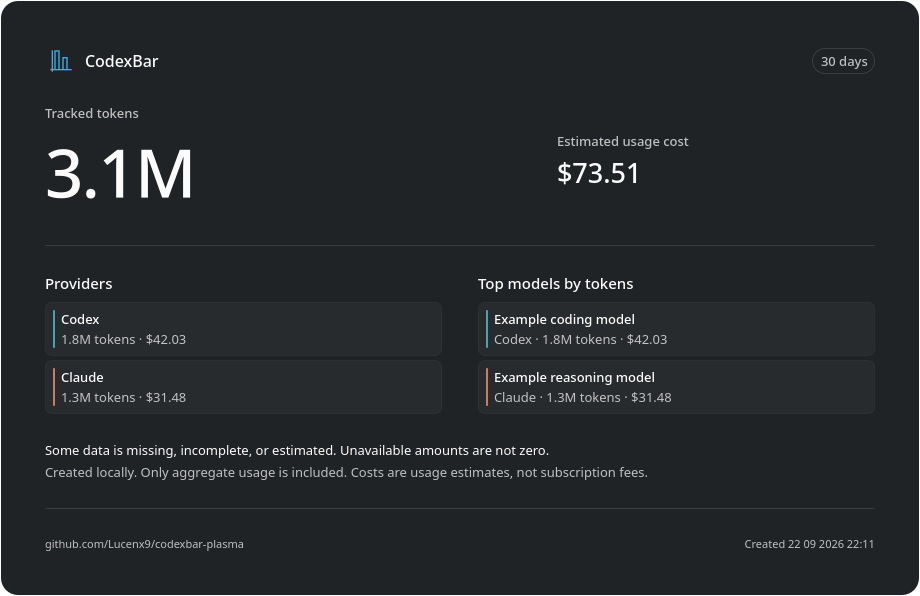
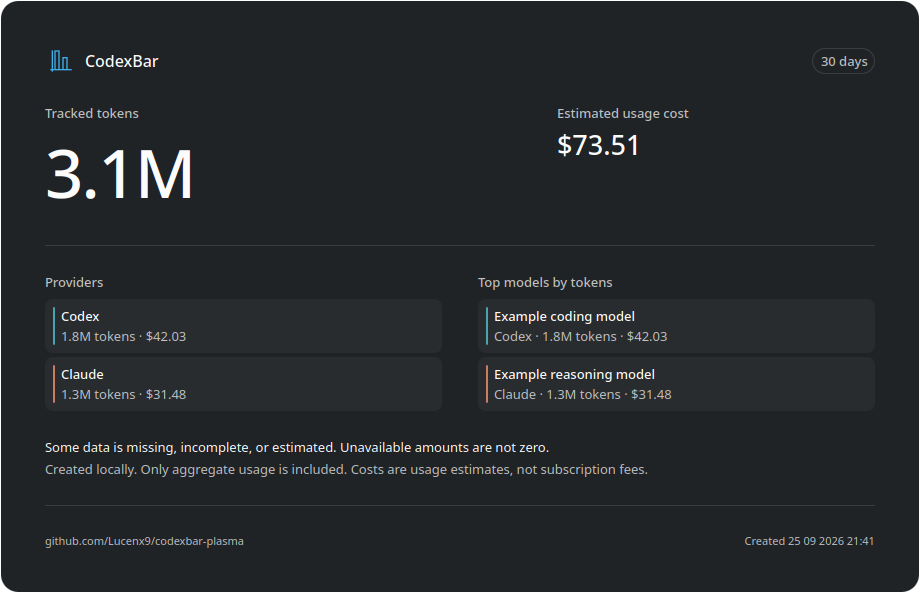
style(share): align usage card captions and flatten rows (#380)
The token and cost captions sat on different lines because the cost column
was vertically centered against the display-size token figure. Align both
columns to the top, give the Providers and Top models headings the same muted
caption style as the hero labels, and drop the per-row outline so rows no
longer read as cards nested inside the card.

Documentation: refresh docs/codexbar-plasma-share.png and the changelog.

diff --git a/contents/ui/components/ShareUsageCard.qml b/contents/ui/components/ShareUsageCard.qml
@@ -93,7 +93,7 @@ Rectangle {
             ColumnLayout {
                 Layout.fillWidth: true
                 Layout.preferredWidth: 2
-                Layout.alignment: Qt.AlignVCenter
+                Layout.alignment: Qt.AlignTop
                 spacing: Kirigami.Units.smallSpacing
                 PlainPlasmaLabel {
                     text: card.presentation.costTitle
@@ -134,10 +134,10 @@ Rectangle {
                     Layout.preferredWidth: 1
                     Layout.alignment: Qt.AlignTop
                     spacing: Kirigami.Units.smallSpacing
-                    PlainHeading {
+                    PlainPlasmaLabel {
                         text: modelData.title
-                        type: Kirigami.Heading.Type.Primary
-                        level: 3
+                        color: card.secondaryInk
+                        font.weight: Font.Medium
                         wrapMode: Text.Wrap
                         Layout.fillWidth: true
                         Layout.bottomMargin: Kirigami.Units.smallSpacing
@@ -150,8 +150,7 @@ Rectangle {
                             Layout.fillWidth: true
                             implicitHeight: rowContent.implicitHeight + Kirigami.Units.largeSpacing * 2
                             radius: Kirigami.Units.cornerRadius * 1.5
-                            color: card.withAlpha(card.ink, 0.035)
-                            border.color: card.withAlpha(card.ink, 0.06)
+                            color: card.withAlpha(card.ink, 0.04)
                             Rectangle {
                                 anchors.left: parent.left
                                 anchors.top: parent.top

diff --git a/CHANGELOG.md b/CHANGELOG.md
@@ -28,6 +28,9 @@ For earlier versions, see [GitHub Releases](https://github.com/Lucenx9/codexbar-
   keeping the provider hue, the connection-error state centers a muted status
   glyph below its banner, account buttons show a tooltip only when their label
   is cut short, and the accounts header no longer shifts while loading.
+- The shared usage card aligns the token and cost captions on one line, uses
+  the same muted caption style for its Providers and Top models headings, and
+  drops the outline from each row so the rows no longer read as nested cards.
 
 ### Fixed
 
